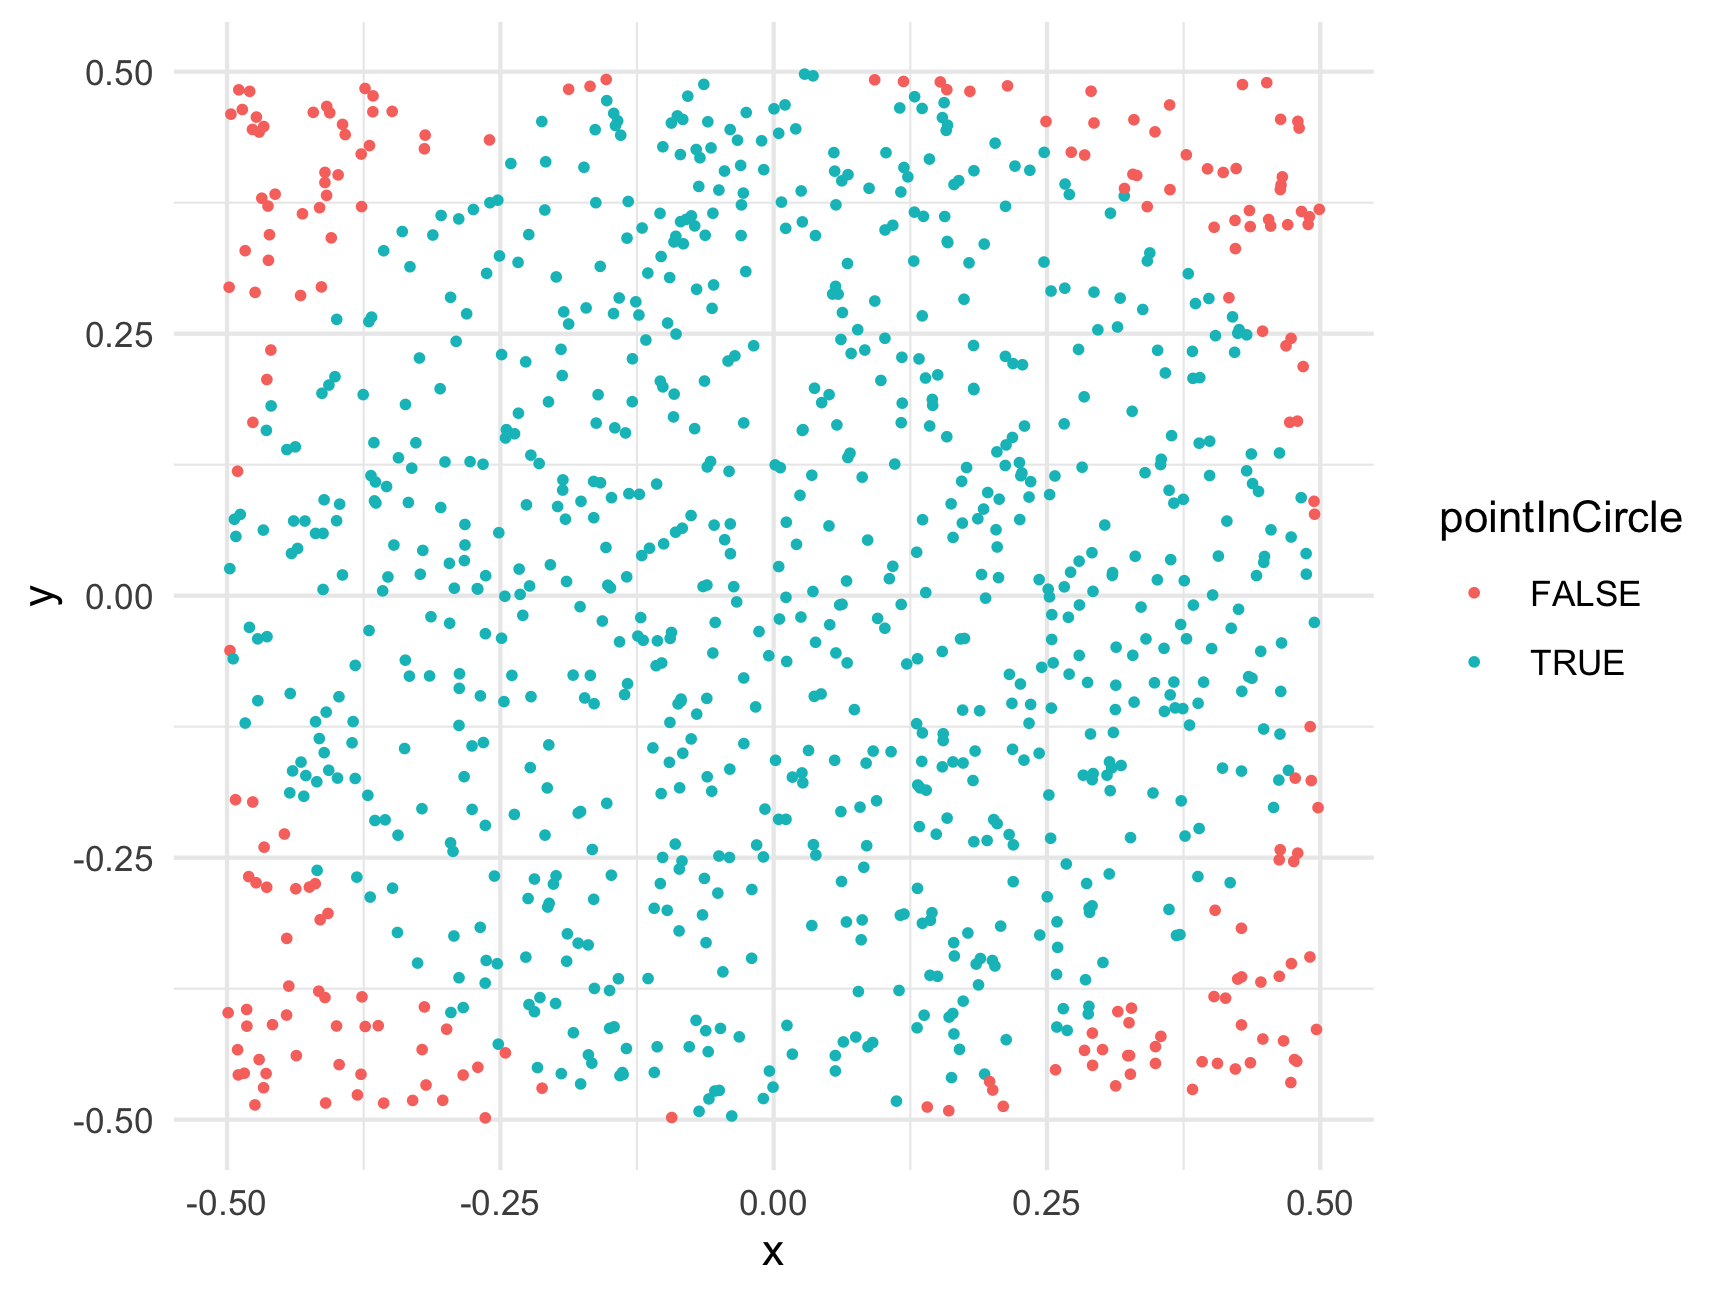
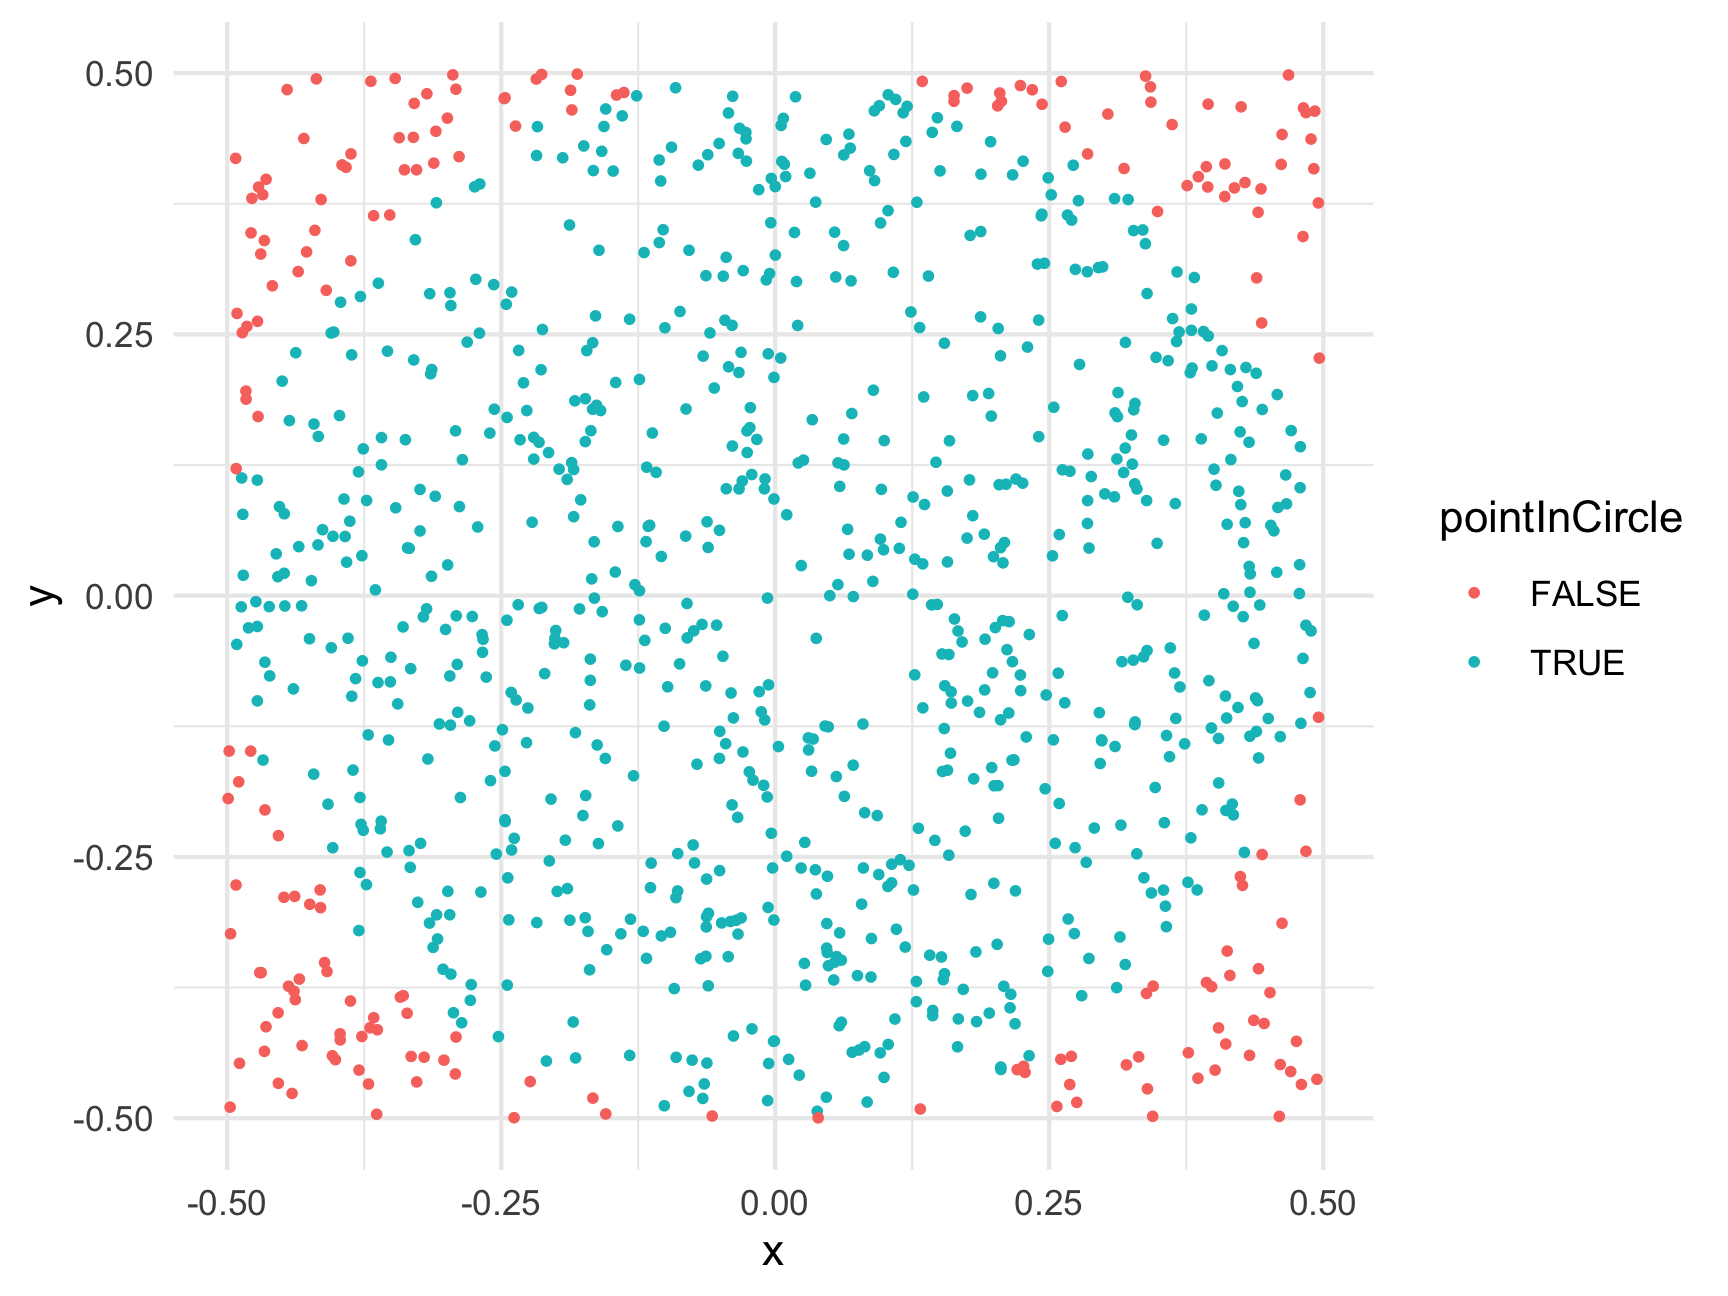
Deploying to gh-pages from  @ 67ab258da5164645fe4b4d1bc1240b8863d5b4ba 🚀

diff --git a/r13-monte-carlo-methods.html b/r13-monte-carlo-methods.html
@@ -812,11 +812,11 @@ ratio &lt;- sum(belowCurve) / numTrials
 totalArea &lt;- (7 - 3) * 7^2 # Rectangle length x height = 196
 areaUnderCurve &lt;- ratio * totalArea
 areaUnderCurve</code></pre>
-<pre><code>#&gt; [1] 105.7636</code></pre>
-<p>So, using Monte Carlo simulation with 100,000 points, we estimate that the area under the curve is 105.76356. How’d we do? Well, if you’re familiar with calculus, the integral of <span class="math inline">\(f(x) = x^2\)</span> has a closed-form solution (<span class="math inline">\(\frac{x^3}{3} + C\)</span>), so we can check our estimate against the pure-math solution:</p>
+<pre><code>#&gt; [1] 105.058</code></pre>
+<p>So, using Monte Carlo simulation with 100,000 points, we estimate that the area under the curve is 105.05796. How’d we do? Well, if you’re familiar with calculus, the integral of <span class="math inline">\(f(x) = x^2\)</span> has a closed-form solution (<span class="math inline">\(\frac{x^3}{3} + C\)</span>), so we can check our estimate against the pure-math solution:</p>
 <p><span class="math display">\[\int_{3}^{7} x^2 \mathrm{dx} = \left ( \frac{x^3}{3} \right ) \Big|_3^7 = \frac{7^3}{3} - \frac{3^3}{3} = 105.33\bar{3}\]</span></p>
-<p>So our estimate error is: <code>105.333 -</code> <code>105.76356</code> <code>=</code> <code>-0.4302267</code>.</p>
-<p>That’s an error of just 0.41 % - not bad!</p>
+<p>So our estimate error is: <code>105.333 -</code> <code>105.05796</code> <code>=</code> <code>0.2753733</code>.</p>
+<p>That’s an error of just 0.26 % - not bad!</p>
 <hr />
 </div>
 <div id="monte-carlo-pi" class="section level1">
@@ -847,12 +847,12 @@ points &lt;- data.frame(
     y = runif(numTrials, -0.5, 0.5))
 head(points)</code></pre>
 <pre><code>#&gt;            x            y
-#&gt; 1 0.21891936  0.221496058
-#&gt; 2 0.28448862  0.420473223
-#&gt; 3 0.49795403 -0.202289513
-#&gt; 4 0.46643647 -0.424844868
-#&gt; 5 0.07086534  0.231150621
-#&gt; 6 0.29209178  0.004131442</code></pre>
+#&gt; 1  0.2541529  0.180274732
+#&gt; 2 -0.3802105  0.118489957
+#&gt; 3 -0.1058465  0.416864001
+#&gt; 4  0.2034207  0.255656669
+#&gt; 5 -0.1649579 -0.002360147
+#&gt; 6 -0.3168839 -0.156287023</code></pre>
 <p>For this example, we’re putting the points in a data frame to make it easier to work with. Now that we have random x and y points, let’s compute the radius to each point (the distance from <code>(x, y) = (0, 0)</code>) so we can determine which points fall inside the circle (which has a radius of 0.5):</p>
 <pre class="r"><code>library(dplyr)
 points &lt;- points %&gt;%
@@ -869,9 +869,9 @@ ggplot(points) +
 <pre class="r"><code>ratio &lt;- sum(points$pointInCircle) / nrow(points)
 piApprox &lt;- 4 * ratio
 piApprox</code></pre>
-<pre><code>#&gt; [1] 3.2</code></pre>
-<p>So our estimate error is: <code>3.1415 -</code> <code>3.2</code> <code>=</code> <code>0.0584073</code>.</p>
-<p>That’s an error of just 1.86 % - not bad for only 1,000 points!</p>
+<pre><code>#&gt; [1] 3.208</code></pre>
+<p>So our estimate error is: <code>3.1415 -</code> <code>3.208</code> <code>=</code> <code>0.0664073</code>.</p>
+<p>That’s an error of just 2.11 % - not bad for only 1,000 points!</p>
 <p>To get an even better estimate of <span class="math inline">\(\pi\)</span>, we can increase N. Let’s see what we get with 100,000 trials:</p>
 <pre class="r"><code>numTrials &lt;- 100000
 points &lt;- data.frame(
@@ -883,13 +883,13 @@ points &lt;- data.frame(
 ratio &lt;- sum(points$pointInCircle) / nrow(points)
 piApprox &lt;- 4 * ratio
 piApprox</code></pre>
-<pre><code>#&gt; [1] 3.14448</code></pre>
+<pre><code>#&gt; [1] 3.14252</code></pre>
 <pre class="r"><code># Compute error:
 error &lt;- piApprox - pi
 percentError &lt;- round(100*abs(error / pi), 2)
 percentError</code></pre>
-<pre><code>#&gt; [1] 0.09</code></pre>
-<p>By increasing the number of trials from 1,000 to 100,000, we improved our estimate error from 1.86 % to 0.09 %!</p>
+<pre><code>#&gt; [1] 0.03</code></pre>
+<p>By increasing the number of trials from 1,000 to 100,000, we improved our estimate error from 2.11 % to 0.03 %!</p>
 <hr />
 <p><strong>Page sources</strong>:</p>
 <p>Some content on this page has been modified from other courses, including:</p>

diff --git a/r2-functions-packages.html b/r2-functions-packages.html
@@ -770,7 +770,7 @@ div.tocify {
 <p>Here the letters <code>sqrt</code> are short for “square root,” and the value inside the <code>()</code> is the “argument” to the function. In the example above, the value <code>225</code> is the “argument”.</p>
 <p>Keep in mind that not all functions have (or require) arguments:</p>
 <pre class="r"><code>date() # Returns the current date and time</code></pre>
-<pre><code>#&gt; [1] &quot;Wed Mar 23 15:05:51 2022&quot;</code></pre>
+<pre><code>#&gt; [1] &quot;Thu Mar 24 17:08:39 2022&quot;</code></pre>
 <p>(the date above is the date this page was last built)</p>
 <div id="multiple-arguments" class="section level2">
 <h2>Multiple arguments</h2>
@@ -988,9 +988,9 @@ library(packagename)   # This also works</code></pre>
 <p>Now that you have the package installed on your computer, try loading it using <code>library(wikifacts)</code>, then trying using some of it’s functions:</p>
 <pre class="r"><code>library(wikifacts) # Load the library</code></pre>
 <pre class="r"><code>wiki_randomfact()</code></pre>
-<pre><code>#&gt; [1] &quot;Did you know that the world&#39;s largest building by volume is an airplane factory in Everett, Washington? (Courtesy of Wikipedia)&quot;</code></pre>
+<pre><code>#&gt; [1] &quot;Here&#39;s some news from 19 April 2016. A magnitude 7.8 earthquake hits Ecuador, killing at least 410 people and injuring more than 2,500 others. (Courtesy of Wikipedia)&quot;</code></pre>
 <pre class="r"><code>wiki_didyouknow()</code></pre>
-<pre><code>#&gt; [1] &quot;Did you know that as a child, future script supervisor Pamela Mann-Francis went to the cinema multiple times a week, even during Second World War air raids? (Courtesy of Wikipedia)&quot;</code></pre>
+<pre><code>#&gt; [1] &quot;Did you know that the young Troy Baker was cast as the older Joel Miller in The Last of Us because of his voice and movement? (Courtesy of Wikipedia)&quot;</code></pre>
 <p>In case you’re wondering, the only thing this package does is generate messages containing random facts from <a href="https://www.wikipedia.org/">Wikipedia</a>.</p>
 </div>
 <div id="using-only-some-package-functions" class="section level2">
@@ -1001,7 +1001,7 @@ library(packagename)   # This also works</code></pre>
 </blockquote>
 <p>Here I use the name of the <em>package</em> followed by <code>::</code> to tell R that I’m looking for a function that is in that package. For example, if I didn’t want to load the whole <strong>wikifacts</strong> library but still wanted to use the <code>wiki_randomfact()</code> function, I could do this:</p>
 <pre class="r"><code>wikifacts::wiki_randomfact()</code></pre>
-<pre><code>#&gt; [1] &quot;Here&#39;s some news from 21 July 2015. Scientists at CERN&#39;s Large Hadron Collider announce the observation of pentaquarks. (Courtesy of Wikipedia)&quot;</code></pre>
+<pre><code>#&gt; [1] &quot;Here&#39;s some news from 01 October 2017. A magnitude 7.1 earthquake strikes central Mexico, killing more than three hundred people. (Courtesy of Wikipedia)&quot;</code></pre>
 <p>Where this is particularly handy is when two packages have a function with the same name. If you load both library, R might not know which function to use. In those cases, it’s best to also provide the <strong>package</strong> name. For example, let’s say there was a package called <strong>apples</strong> and another called <strong>bananas</strong>, and each had a function named <code>fruitName()</code>. If I wanted to use each of them in my code, I would need to specify the package names like this:</p>
 <pre class="r"><code>apples::fruitName()
 bananas::fruitName()</code></pre>

diff --git a/c9-data-frames.html b/c9-data-frames.html
@@ -31,6 +31,7 @@
 <script src="site_libs/navigation-1.1/tabsets.js"></script>
 <link href="site_libs/highlightjs-9.12.0/textmate.css" rel="stylesheet" />
 <script src="site_libs/highlightjs-9.12.0/highlight.js"></script>
+<script src="site_libs/fitvids-2.1.1/fitvids.min.js"></script>
 <link href="site_libs/font-awesome-5.1.0/css/all.css" rel="stylesheet" />
 <link href="site_libs/font-awesome-5.1.0/css/v4-shims.css" rel="stylesheet" />
 <link rel="icon" href="images/favicon.ico">
@@ -663,7 +664,35 @@ $(document).ready(function () {
 </div>
 
 
-<p>Coming soon!</p>
+<div class = "row">
+<div class="col-md-5">
+<p><strong>KEYBOARD SHORTCUTS FOR SLIDES:</strong></p>
+<ul>
+<li>Use <kbd>←</kbd> and <kbd>→</kbd> to navigate through the slides.</li>
+<li>Use <kbd>f</kbd> to toggle full screen.</li>
+<li>Use <kbd>o</kbd> to view an overview of all slides.</li>
+<li>Use <kbd>h</kbd> to see a list of other shortcuts.</li>
+</ul>
+</div>
+<div class="row">
+<div class="col-md-3">
+<div class="class-buttons">
+<p><strong>SLIDES</strong></p>
+<p><a href=class/9-data-frames/index.html class="btn-slides" target="_blank"><i class="fas fa-external-link-alt"></i> View in new window</a></p>
+<p><a href=class/9-data-frames/9-data-frames.pdf class="btn-slides"><i class="fas fa-file-pdf"></i> Download as PDF</a></p>
+</div>
+</div>
+<div class="col-md-3">
+<div class="class-buttons">
+<p><strong>CLASS PRACTICE</strong></p>
+<p><a href=class/9-data-frames/9-data-frames.zip class="btn-notes"><i class="fas fa-download"></i> Download zip file</a></p>
+</div>
+</div>
+</div>
+<div class="shareagain" style="min-width:300px;margin:1em auto;">
+<iframe src="class/9-data-frames/index.html" width="1600" height="900" style="border:2px solid currentColor;" loading="lazy" allowfullscreen></iframe>
+<script>fitvids('.shareagain', {players: 'iframe'});</script>
+</div>
 
 <hr>
 
